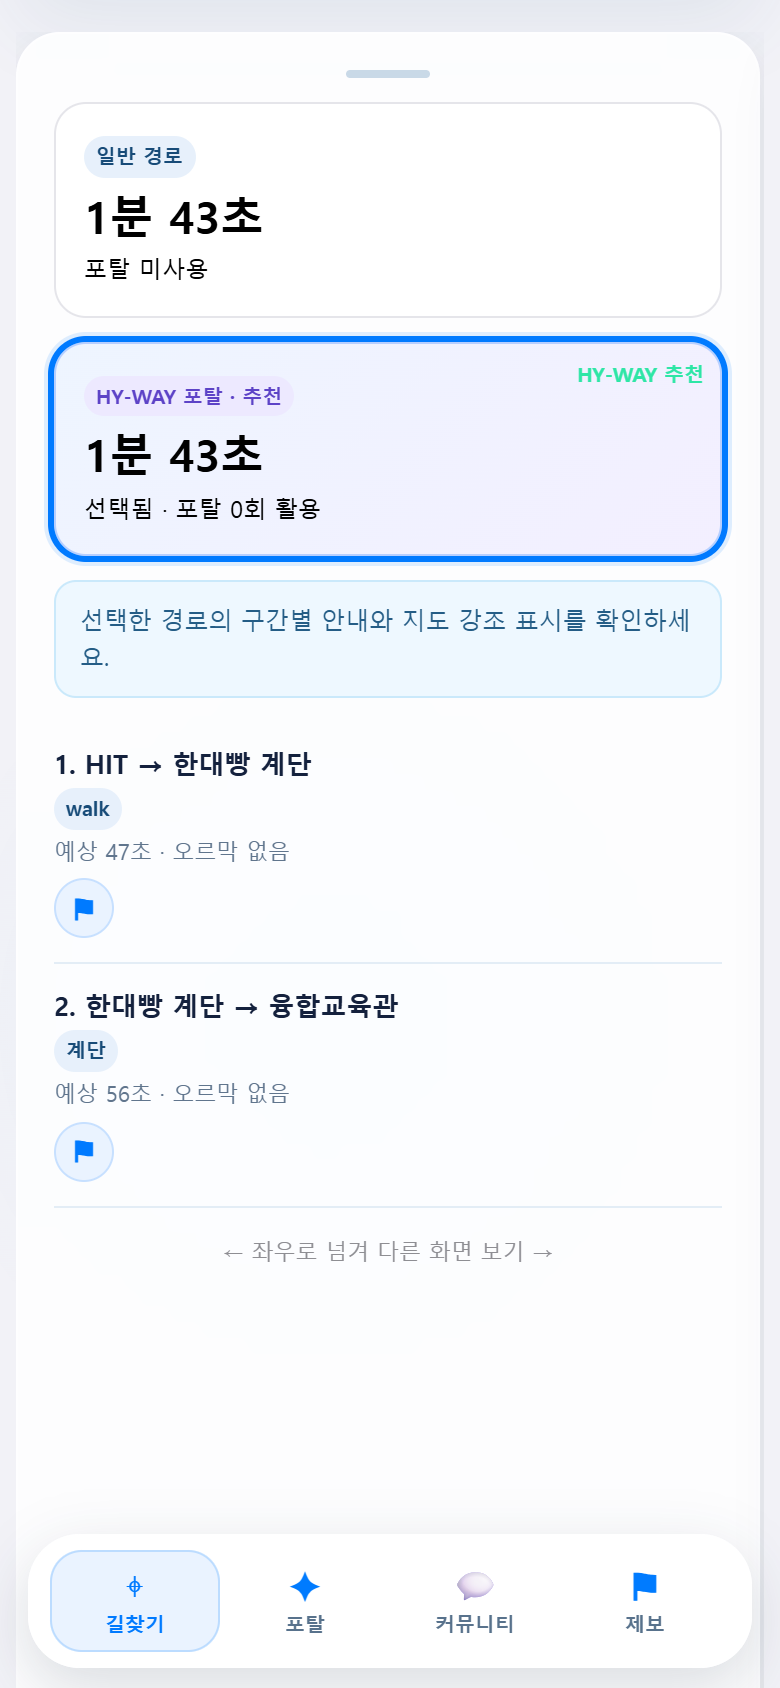
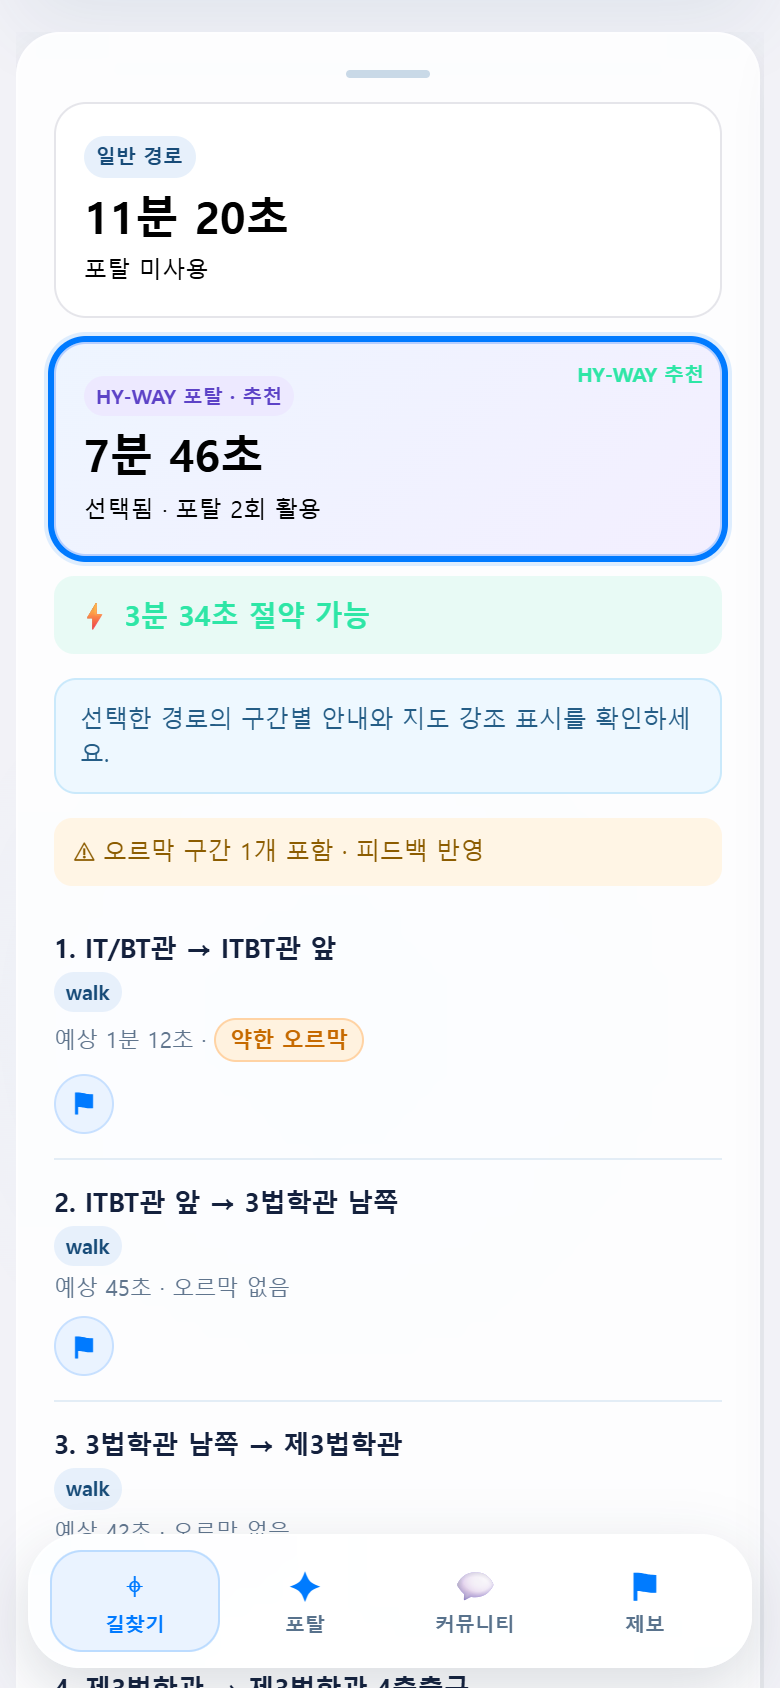
Show IT/BT to HIT portal route on HY-WAY screenshots

diff --git a/README.md b/README.md
@@ -137,9 +137,9 @@ instead of guessing what "M" means at each brand.
 **Campus Navigation · Graph-based Pathfinding · Independent Project**
 
 <p align="center">
-  <img src="assets/hy-way/home.png" alt="Campus map with route search and portal markers" width="30%">
+  <img src="assets/hy-way/map-route.png" alt="Map view — normal route vs portal route from IT/BT to HIT" width="30%">
   &nbsp;
-  <img src="assets/hy-way/route.png" alt="Normal route vs HY-WAY portal route comparison" width="30%">
+  <img src="assets/hy-way/route.png" alt="Route comparison — 11m 20s normal vs 7m 46s with 2 portals" width="30%">
   &nbsp;
   <img src="assets/hy-way/portal.png" alt="List of campus portals — shortcuts through buildings" width="30%">
 </p>
